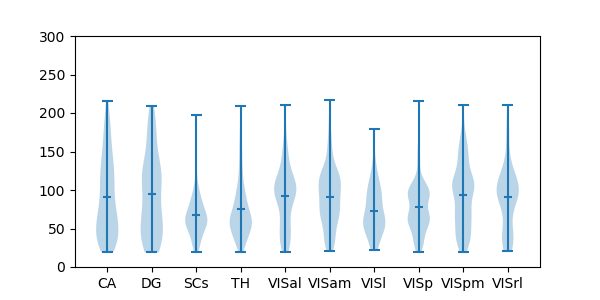
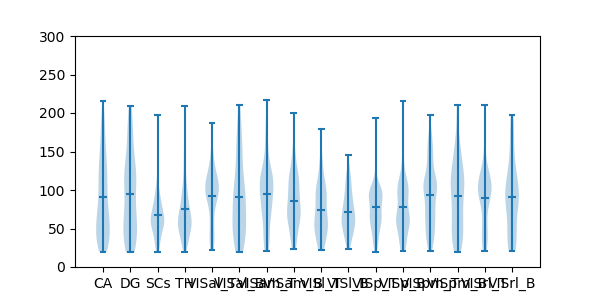
Improving latency detection and adding Seb's code

Changed region(s): [[0.15, 0.33, 0.87, 0.84], [0.15, 0.9, 0.9, 0.99]]

diff --git a/Stav/Latency_paper/plot_latency_distribution_per_region.py b/Stav/Latency_paper/plot_latency_distribution_per_region.py
@@ -1,39 +1,55 @@
 import numpy as np
 import pandas as pd
 import matplotlib.pyplot as plt
-from get_all_exp_file_names import get_all_exp_file_names
-from get_resource_path import get_resource_path
-from load_exp_dataframe import load_exp_dataframe
-from get_latency_dataframe import get_latency_dataframe
+from get_full_latency_dataframe import get_full_latency_dataframe
+from get_all_crotical_regions import get_all_crotical_regions
+from get_depth_thresh_dict import get_depth_thresh_dict
 
-resource_folder = get_resource_path()
-all_exp_files = get_all_exp_file_names()
+full_latency_dataframe = get_full_latency_dataframe()
 
-full_latency_dataframe = []
-for exp_file in all_exp_files:
-    latency_dataframe = load_exp_dataframe(exp_file, resource_folder)
-    full_latency_dataframe.append(latency_dataframe)
-full_latency_dataframe = pd.concat(full_latency_dataframe, ignore_index=True)
-
-print(full_latency_dataframe[full_latency_dataframe.unit_id == 'noise'].unit_id)
-
+cortex_depth = get_depth_thresh_dict()
+print(cortex_depth)
 latencies_across_region = []
 mean_per_region = []
+all_region_names = []
 all_regions = np.unique(full_latency_dataframe['region'])
 for region in all_regions:
-    region_units = full_latency_dataframe[full_latency_dataframe['region'] == region]
-    all_latencies = region_units['latency_sdf'].values.astype(float)
-    all_latencies = all_latencies[~np.isnan(all_latencies)]
-    # print(all_latencies)
-    latencies_across_region.append(all_latencies)
-    mean_per_region.append(all_latencies.mean())
+    if region in get_all_crotical_regions():
+        region_units = full_latency_dataframe[full_latency_dataframe['region'] == region]
+        all_top_latencies = []
+        all_bottom_latencies = []
+        for index, row in region_units.iterrows():
+            if not np.isnan(row['latency_sdf']):
+                depth_thresh = cortex_depth[row['experiment'] + '_' + row['probe']]
+                # print(row['depth'])
+                # print(depth_thresh)
+                # print('--')
+                if int(row['depth']) > depth_thresh:
+                    all_top_latencies.append(row['latency_sdf'])
+                else:
+                    all_bottom_latencies.append(row['latency_sdf'])
+        latencies_across_region.append(np.asarray(all_top_latencies))
+        mean_per_region.append(np.mean(all_top_latencies))
+        all_region_names.append(region + '_T')
 
+        latencies_across_region.append(np.asarray(all_bottom_latencies))
+        mean_per_region.append(np.mean(all_bottom_latencies))
+        all_region_names.append(region + '_B')
+    else:
+        region_units = full_latency_dataframe[full_latency_dataframe['region'] == region]
+        all_latencies = region_units['latency_sdf'].values.astype(float)
+        all_latencies = all_latencies[~np.isnan(all_latencies)]
+        latencies_across_region.append(all_latencies)
+        mean_per_region.append(all_latencies.mean())
+        all_region_names.append(region)
+
+# print(latencies_across_region)
 fig, ax = plt.subplots(1,1,figsize=(6,3))
 ax.violinplot(latencies_across_region)
 ax.set_ylim([0, 300])
-x_axis_vals = range(1, len(all_regions)+1)
+x_axis_vals = range(1, len(all_region_names)+1)
 ax.set_xticks(x_axis_vals)
-ax.set_xticklabels(all_regions)
+ax.set_xticklabels(all_region_names)
 ax.scatter(x_axis_vals, mean_per_region, marker='_')
 fig.savefig('latency_analysis_v11.png')
 plt.show()

diff --git a/Stav/Latency_paper/get_latency_from_sdf_v12.py b/Stav/Latency_paper/get_latency_from_sdf_v12.py
@@ -3,16 +3,29 @@ from get_prestimulus_time import get_prestimulus_time
 from get_time_window_buffer import get_time_window_buffer
 from get_baseline_window_size import get_baseline_window_size
 
-def get_latency_from_sdf_v11(sdf, number_of_std=4, min_response_window=10):
+def get_latency_from_sdf_v12(all_sdfs, number_of_std=3, min_response_window=10):
     baseline_window_size = get_baseline_window_size()
     pre_stimulus_time = get_prestimulus_time() - get_time_window_buffer()
-    baseline_stimulus_sdf = sdf[pre_stimulus_time-baseline_window_size:pre_stimulus_time+baseline_window_size]
-    post_stimulus_sdf = sdf[pre_stimulus_time:]
+    post_stimulus_sdf = mean_SDF[pre_stimulus_time:] #the rest of the sdf after stim onset
 
-    pre_std_val = np.std(baseline_stimulus_sdf)
-    pre_mean_val = np.mean(baseline_stimulus_sdf)
-    positive_threshold = pre_mean_val + number_of_std*pre_std_val
-    negative_threshold = pre_mean_val + -1*number_of_std*pre_std_val
+    mean_SDF = all_sdfs.mean(axis=0)
+    std_SDF = all_sdfs.std(axis=0)
+    SEM_SDF = std_SDF/np.sqrt(len(all_sdfs))
+    CI95_SDF = SEM_SDF*1.96
+    CI99_SDF = SEM_SDF*2.58
+
+    #Compute latency
+    multiplier = number_of_std #Multiplier of standard errors for threshold detection
+
+    #Calculate baseline responses
+    baseline_mean = np.mean(mean_SDF[pre_stimulus_time-baseline_window_size:pre_stimulus_time+baseline_window_size]) #Looking at the 20 msec before and after stim onset
+    baseline_std = np.mean(std_SDF[pre_stimulus_time-baseline_window_size:pre_stimulus_time+baseline_window_size]) #Looking at the 20 msec before and after stim onset
+    baseline_SEM = np.mean(SEM_SDF[pre_stimulus_time-baseline_window_size:pre_stimulus_time+baseline_window_size]) #Looking at the 20 msec before and after stim onset
+    baseline_CI95 = np.mean(CI95_SDF[pre_stimulus_time-baseline_window_size:pre_stimulus_time+baseline_window_size]) #Looking at the 20 msec before and after stim onset
+    baseline_CI99 = np.mean(CI99_SDF[pre_stimulus_time-baseline_window_size:pre_stimulus_time+baseline_window_size]) #Looking at the 20 msec before and after stim onset
+
+    positive_threshold = baseline_mean + multiplier * baseline_CI95 #Defines upper threshold as a multiplier of std
+    negative_threshold = baseline_mean - multiplier * baseline_CI95 #Defines upper threshold as a multiplier of std
 
     pos_thresh_inds = post_stimulus_sdf > positive_threshold
     neg_thresh_inds = post_stimulus_sdf < negative_threshold

diff --git a/Stav/Latency_paper/validate_latency_calculation.py b/Stav/Latency_paper/validate_latency_calculation.py
@@ -1,0 +1,45 @@
+import numpy as np
+from get_run_on_server import get_run_on_server
+import os
+import pandas as pd
+if get_run_on_server():
+    basic_path = '/data/dynamic-brain-workshop/'
+else:
+    basic_path = 'F:\\'
+drive_path = basic_path + 'visual_coding_neuropixels'
+import sys
+sys.path.append(basic_path + 'resources/swdb_2018_neuropixels')
+from plot_raster_sdf import plot_raster_sdf
+from get_spike_trains_from_unit_id import get_spike_trains_from_unit_id
+from get_full_latency_dataframe import get_full_latency_dataframe
+from get_resource_path import get_resource_path
+from get_mean_sdf_from_spike_train import get_mean_sdf_from_spike_train
+from get_latency_from_sdf_v11 import get_latency_from_sdf_v11
+from plot_raster_sdf import plot_raster_sdf
+from get_resource_path import get_resource_path
+from load_exp_file import load_exp_file
+
+full_latency_dataframe = get_full_latency_dataframe()
+
+manifest_file = os.path.join(drive_path,'ephys_manifest.csv')
+expt_info_df = pd.read_csv(manifest_file)
+multi_probe_experiments = expt_info_df[expt_info_df.experiment_type == 'multi_probe']
+
+for multi_probe_id in range(len(multi_probe_experiments)):    
+    data_set, multi_probe_filename = load_exp_file(multi_probe_experiments, multi_probe_id, drive_path)
+    low_latency_units = full_latency_dataframe[(full_latency_dataframe.latency_sdf < 50) & (full_latency_dataframe.experiment == multi_probe_filename)]
+
+    for index, row in low_latency_units.iterrows():
+    	spike_trains = get_spike_trains_from_unit_id(data_set, row['probe'], row['unit_id'])
+    	mean_sdf, spike_raster = get_mean_sdf_from_spike_train(spike_trains)
+    	sdf_latency, response_type, pre_stim_dict = get_latency_from_sdf_v11(mean_sdf)
+    	c_key = row['experiment'] + '_' + row['unit_id']
+    	st_vals = {}
+        st_vals['latency_sdf'] = sdf_latency
+        st_vals['response_type'] = response_type
+        st_vals['latency_sdf_v2'] = 0
+        st_vals['response_type_v2'] = 0
+        plot_raster_sdf(c_key, spike_trains, '', 
+        	mean_sdf, st_vals, pre_stim_dict, 
+        	get_resource_path() + row['experiment'] + '_' + row['unit_id'] + '.png')
+        print('Saved file for: ' + c_key)

diff --git a/Stav/Latency_paper/get_experiment_latency_dataframe.py b/Stav/Latency_paper/get_experiment_latency_dataframe.py
@@ -6,6 +6,7 @@ import datetime
 from get_spike_train_values_from_key import get_spike_train_values_from_key
 from get_mean_sdf_from_spike_train import get_mean_sdf_from_spike_train
 from get_latency_from_sdf_v11 import get_latency_from_sdf_v11
+from get_latency_from_sdf_v12 import get_latency_from_sdf_v12
 from get_latency_dataframe import get_latency_dataframe
 from get_time_window_buffer import get_time_window_buffer
 from get_prestimulus_time import get_prestimulus_time
@@ -54,16 +55,17 @@ def get_experiment_latency_dataframe(data_set, multi_probe_filename, short_versi
         st_vals = get_spike_train_values_from_key(spike_train_name)
         # st_hist = get_hist_from_spike_train(st_vals)
         # hist_latency = get_latency_from_hist(st_hist)
-        mean_sdf, spike_raster = get_mean_sdf_from_spike_train(probe_spikes[spike_train_name])
+        mean_sdf, spike_raster, all_sdfs = get_mean_sdf_from_spike_train(probe_spikes[spike_train_name])
         sdf_latency, response_type, pre_stim_dict = get_latency_from_sdf_v11(mean_sdf)
+        sdf_latency2, response_type2, pre_stim_dict = get_latency_from_sdf_v12(all_sdfs)        
         # sdf_latency2, response_type2 = get_latency_from_sdf_v2(mean_sdf)
         sdf_latency2 = 0
         response_type2 = 0
         st_vals['latency_psth'] = 0
         st_vals['latency_sdf'] = sdf_latency
+        st_vals['response_type'] = response_type
         st_vals['latency_sdf_v2'] = sdf_latency2
         st_vals['response_type_v2'] = response_type2
-        st_vals['response_type'] = response_type
         latency_dataframe.loc[st_ind] = st_vals
 
         if not get_run_on_server():

diff --git a/Stav/Latency_paper/analyse_latency_dataframe.py b/Stav/Latency_paper/analyse_latency_dataframe.py
@@ -1,0 +1,32 @@
+import numpy as np
+import pandas as pd
+from get_full_latency_dataframe import get_full_latency_dataframe
+from get_all_crotical_regions import get_all_crotical_regions
+import matplotlib.pyplot as plt
+
+full_latency_dataframe = get_full_latency_dataframe()
+all_regions = np.unique(full_latency_dataframe['region'])
+print(all_regions)
+all_cortical_regions = get_all_cortical_regions()
+all_exps = np.unique(full_latency_dataframe['experiment'])
+
+fig, ax = plt.subplots(1,1,figsize=(12,6))
+c_ind = 0
+all_lables = []
+for exp in all_exps:
+	all_probes = np.unique(full_latency_dataframe[full_latency_dataframe['experiment'] == exp]['probe'])
+	for probe in all_probes:
+		all_depths = full_latency_dataframe[(full_latency_dataframe['experiment'] == exp) & (full_latency_dataframe['probe'] == probe) & (full_latency_dataframe['region'].isin(all_cortical_regions))]['depth'].values.astype(int)
+		ax.plot([c_ind, c_ind], [all_depths.max(), all_depths.min()], marker='_')
+		# ax.scatter(c_ind, all_depths.max())
+		# ax.scatter(c_ind, all_depths.min())
+		all_lables.append(exp[-2:]+'_'+probe[-1])
+		c_ind += 1
+	ax.axvline(x=c_ind-0.5, color='black')
+
+ax.set_xticks(range(len(all_lables)))
+ax.set_xticklabels(all_lables)
+ax.set_xlabel('Probe ID')
+ax.set_ylabel('Depth')
+ax.set_title('Spread of unit depth in cortex across probes')
+plt.show()

diff --git a/Stav/Latency_paper/get_depth_thresh_dict.py b/Stav/Latency_paper/get_depth_thresh_dict.py
@@ -1,0 +1,22 @@
+import numpy as np
+import pandas as pd
+from get_full_latency_dataframe import get_full_latency_dataframe
+from get_all_cortical_regions import get_all_cortical_regions
+
+def get_depth_thresh_dict():
+	full_latency_dataframe = get_full_latency_dataframe()
+	all_regions = np.unique(full_latency_dataframe['region'])
+	all_cortical_regions = get_all_cortical_regions()
+	all_exps = np.unique(full_latency_dataframe['experiment'])
+
+	c_ind = 0
+	all_lables = []
+	final_dict = {}
+	for exp in all_exps:
+		all_probes = np.unique(full_latency_dataframe[full_latency_dataframe['experiment'] == exp]['probe'])
+		for probe in all_probes:
+			all_depths = full_latency_dataframe[(full_latency_dataframe['experiment'] == exp) & (full_latency_dataframe['probe'] == probe) & (full_latency_dataframe['region'].isin(all_cortical_regions))]['depth'].values.astype(int)
+			final_dict[exp+'_'+probe] = all_depths.min()+((all_depths.max() - all_depths.min())/2)
+
+	return final_dict
+		

diff --git a/Stav/Latency_paper/get_spike_trains_from_unit_id.py b/Stav/Latency_paper/get_spike_trains_from_unit_id.py
@@ -1,0 +1,17 @@
+import numpy as np
+import pandas as pd
+from get_prestimulus_time import get_prestimulus_time
+from get_time_window_buffer import get_time_window_buffer
+
+def get_spike_trains_from_unit_id(data_set, probe, unit_id):
+    stim_spikes = []
+    c_spikes = data_set.spike_times[probe]
+    unit_spike_train = c_spikes[unit_id]
+    pre_stimulus_time = float(get_prestimulus_time())/1000
+    time_window_buffer = float(get_time_window_buffer())/1000
+
+    for ind, stim_row in data_set.stim_tables['natural_scenes'].iterrows():
+        stimulus_train = unit_spike_train[(unit_spike_train > stim_row['start'] - pre_stimulus_time) & (unit_spike_train < stim_row['end'] + time_window_buffer)] - stim_row['start']
+        stim_spikes.append(stimulus_train)
+
+    return stim_spikes

diff --git a/Stav/Latency_paper/get_mean_sdf_from_spike_train.py b/Stav/Latency_paper/get_mean_sdf_from_spike_train.py
@@ -6,11 +6,11 @@ from get_time_window_buffer import get_time_window_buffer
 def get_mean_sdf_from_spike_train(spike_train):
     time_window_buffer = get_time_window_buffer()
     spike_raster = convert_spike_times_to_raster(spike_train)
-    sdfs = get_sdf_from_spike_train(spike_raster, 5)
+    all_sdfs = get_sdf_from_spike_train(spike_raster, 5)
     # sdfs = np.zeros(spike_raster.shape)
     # for row_ind, single_train in enumerate(spike_raster):
     #     sdf = get_sdf_from_spike_train(single_train, 45)
     #     sdfs[row_ind, :] = sdf
     mean_sdf = sdfs.mean(axis=0)
     mean_sdf = mean_sdf[time_window_buffer:-1*time_window_buffer]
-    return mean_sdf, spike_raster
+    return mean_sdf, spike_raster, all_sdfs

diff --git a/Stav/Latency_paper/get_full_latency_dataframe.py b/Stav/Latency_paper/get_full_latency_dataframe.py
@@ -1,0 +1,16 @@
+import numpy as np
+import pandas as pd
+from get_all_exp_file_names import get_all_exp_file_names
+from get_resource_path import get_resource_path
+from load_exp_dataframe import load_exp_dataframe
+
+def get_full_latency_dataframe():
+	resource_folder = get_resource_path()
+	all_exp_files = get_all_exp_file_names()
+
+	full_latency_dataframe = []
+	for exp_file in all_exp_files:
+	    latency_dataframe = load_exp_dataframe(exp_file, resource_folder)
+	    full_latency_dataframe.append(latency_dataframe)
+	full_latency_dataframe = pd.concat(full_latency_dataframe, ignore_index=True)
+	return full_latency_dataframe

diff --git a/Stav/Latency_paper/get_all_cortical_regions.py b/Stav/Latency_paper/get_all_cortical_regions.py
@@ -1,0 +1,2 @@
+def get_all_cortical_regions():
+	return ['VISal', 'VISam', 'VISl', 'VISp', 'VISpm', 'VISrl']
